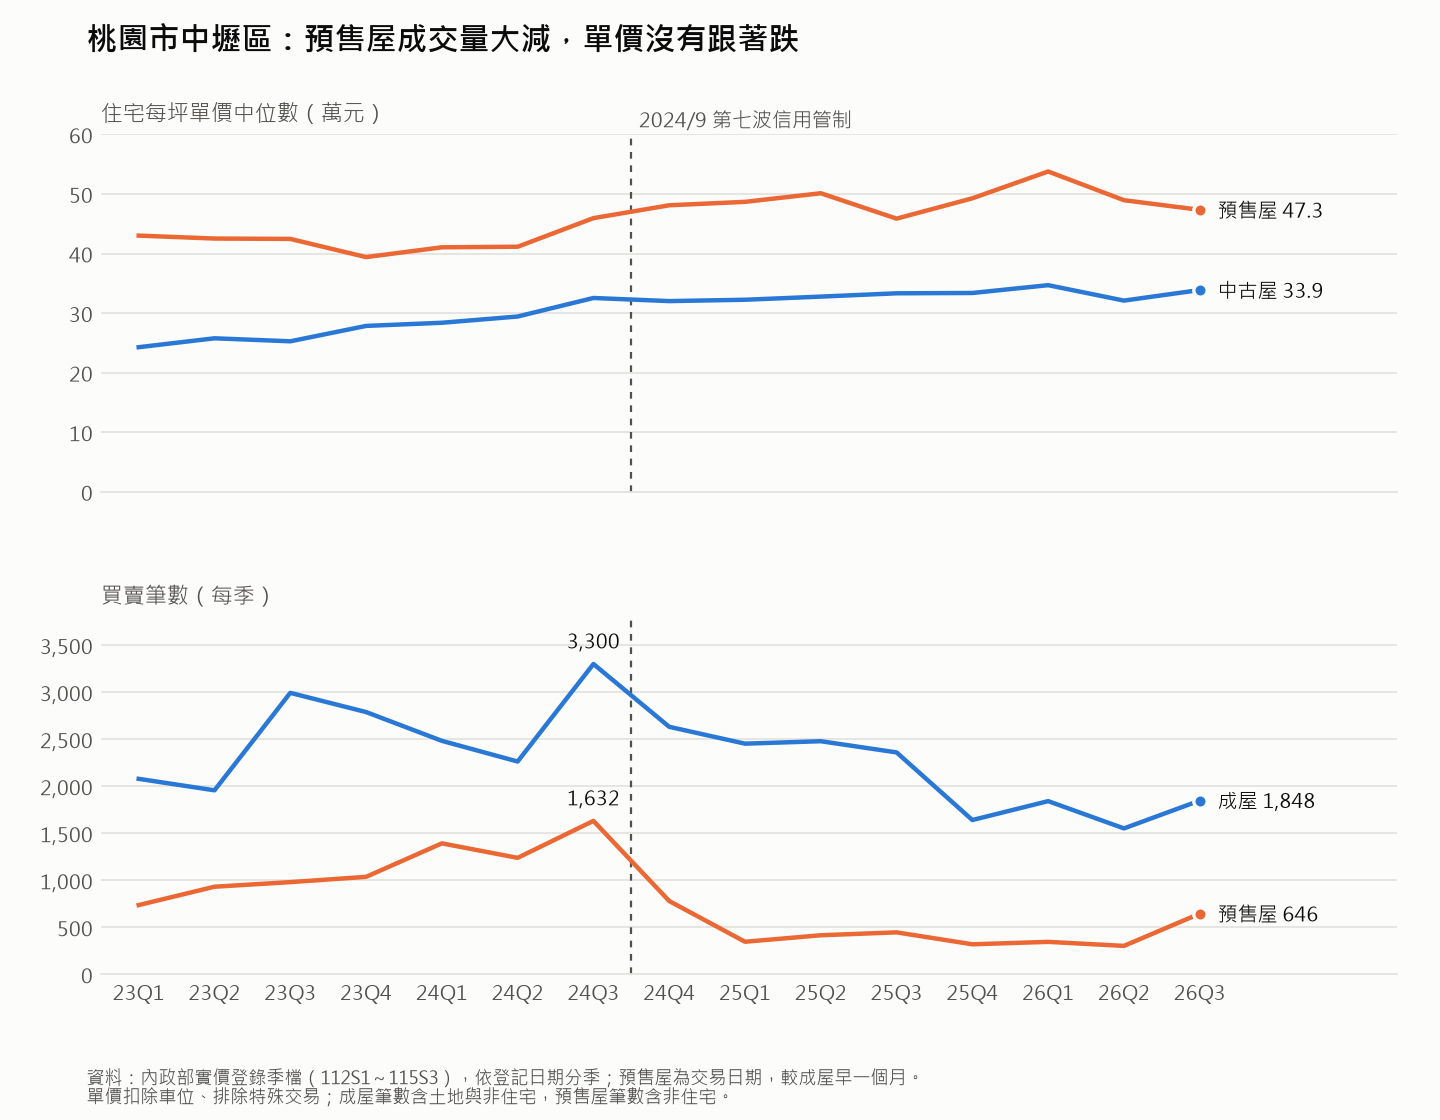
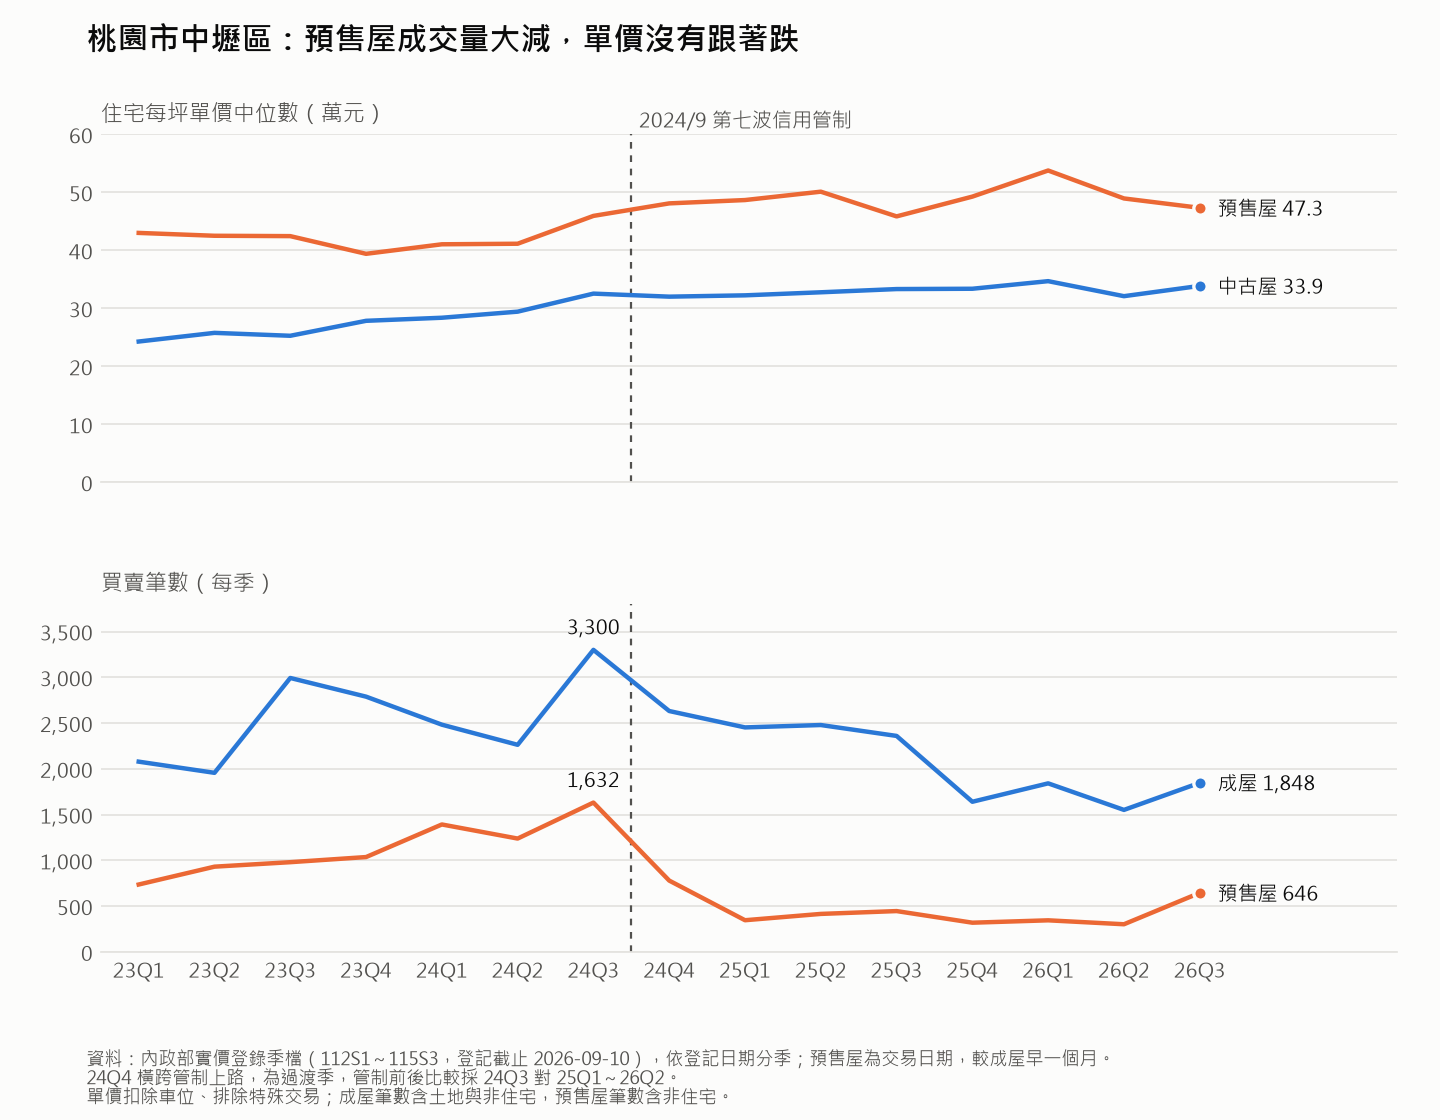
Chart caption: add data cutoff and comparison window

diff --git a/analysis/zhongli_trend.py b/analysis/zhongli_trend.py
@@ -104,10 +104,11 @@ def plot(t, used, pre, control_label, out):
     ax2.set_xlim(-0.5, len(t) + 1.6)
 
     fig.text(0.06, 0.015,
-             "資料：內政部實價登錄季檔（112S1～115S3），依登記日期分季；預售屋為交易日期，較成屋早一個月。\n"
+             "資料：內政部實價登錄季檔（112S1～115S3，登記截止 2026-09-10），依登記日期分季；預售屋為交易日期，較成屋早一個月。\n"
+             "24Q4 橫跨管制上路，為過渡季，管制前後比較採 24Q3 對 25Q1～26Q2。\n"
              "單價扣除車位、排除特殊交易；成屋筆數含土地與非住宅，預售屋筆數含非住宅。",
              fontsize=8, color=INK_2)
-    fig.subplots_adjust(left=0.07, right=0.97, top=0.88, bottom=0.13)
+    fig.subplots_adjust(left=0.07, right=0.97, top=0.88, bottom=0.15)
     out.parent.mkdir(exist_ok=True)
     fig.savefig(out, dpi=160, facecolor=SURFACE)
     print(f"  圖表：{out}")
